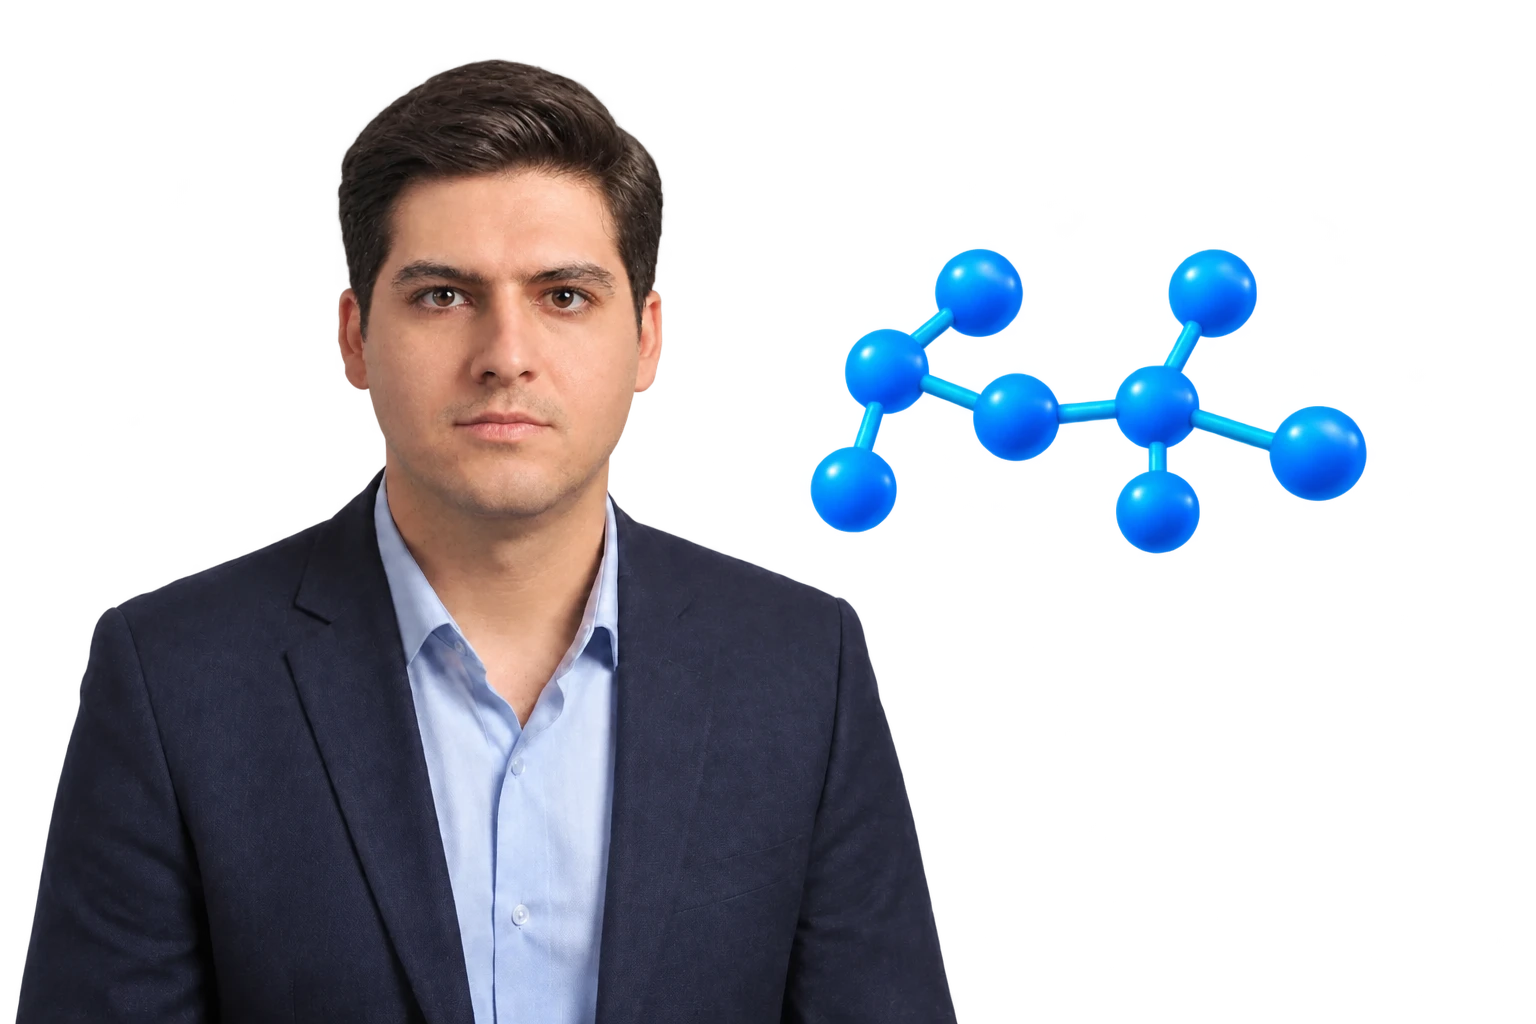
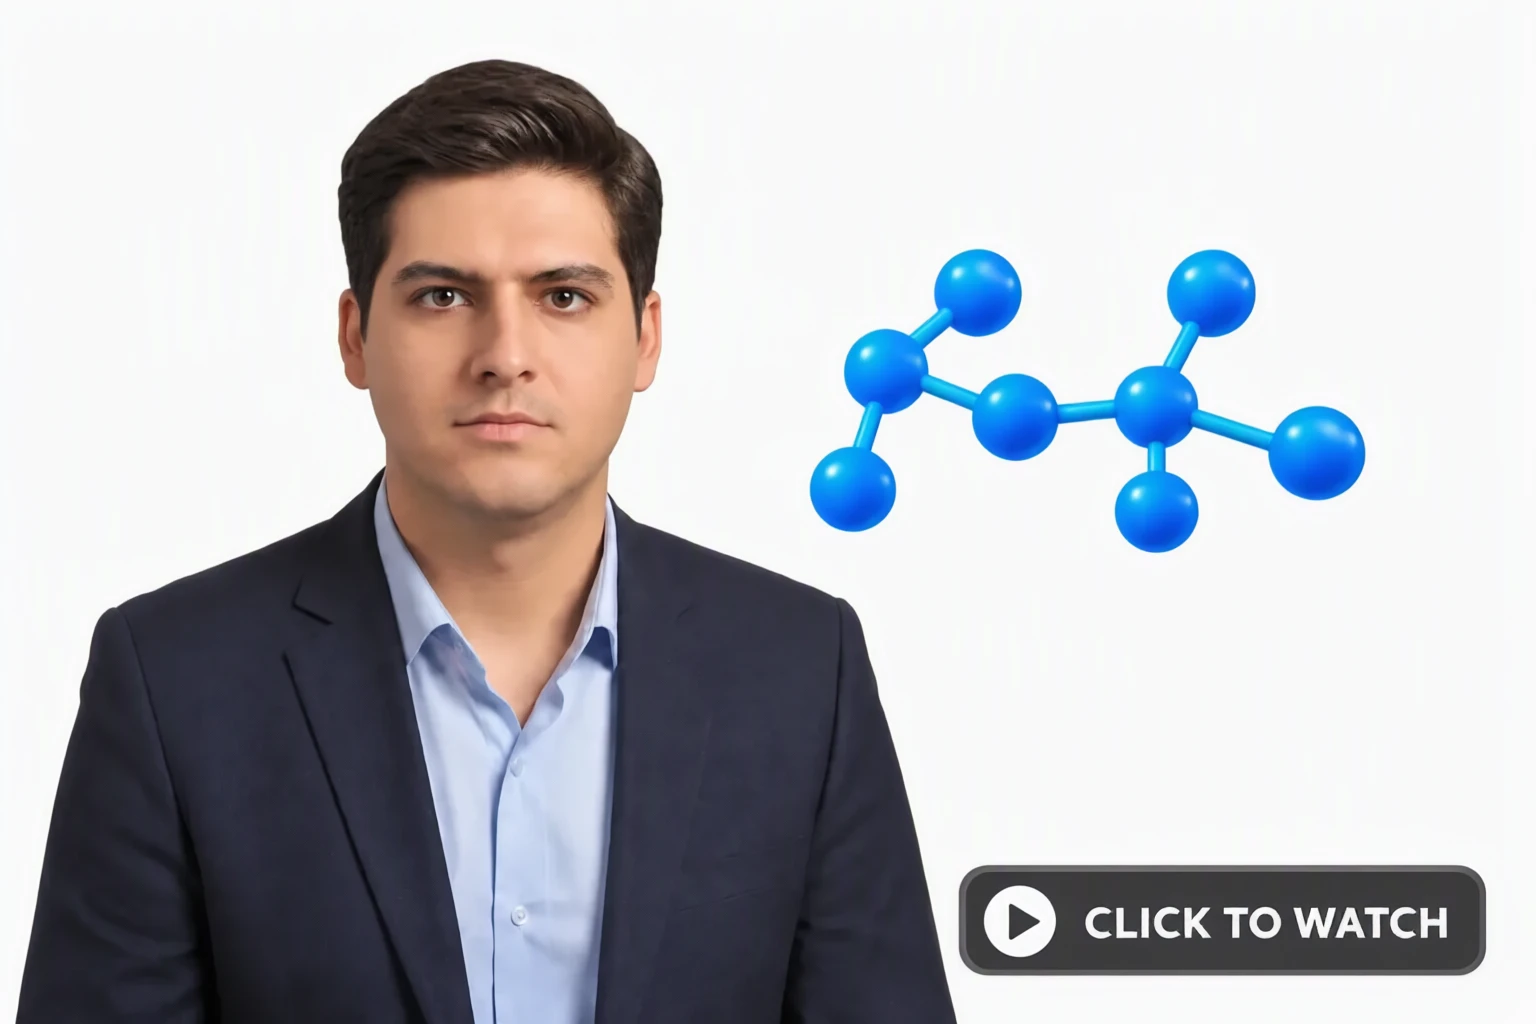
online_course post updated

diff --git a/_posts/2026-10-14-OnlineC.md b/_posts/2026-10-14-OnlineC.md
@@ -23,9 +23,7 @@ In collaboration with [**FaraDars**](https://faradars.org/), I have prepared an 
 
 <div class="row mt-3">
     <div class="col-sm mt-3 mt-md-12">
-      <a href="https://faradars.org/videos/smart-materials-fvmec613"  target="_blank" rel="noopener noreferrer">
-        {% include figure.liquid loading="eager" path="assets/img/OnlineCource.png" title="example image" class="img-fluid rounded z-depth-1" zoomable=true %}
-      </a>
+        {% include figure.liquid loading="eager" path="assets/img/OnlineCourse.png" title="Watch Course" class="img-fluid rounded z-depth-3" href="https://faradars.org/videos/smart-materials-fvmec613" %}
     </div>
 </div>
 
@@ -54,15 +52,7 @@ In collaboration with [**FaraDars**](https://faradars.org/), I have prepared an 
   * Advantages, challenges, and limitations of soft materials
 
 
----
 
-🔗 **Course Access Link:**  
-[Watch the course on FaraDars](https://faradars.org/videos/smart-materials-fvmec613)
-
-
-I would love to hear your thoughts and feedback! 
-
-#SmartMaterials #AdvancedMaterials #SoftRobotics #MaterialsScience #AdvancedFunctionalMaterials
 
 
 
